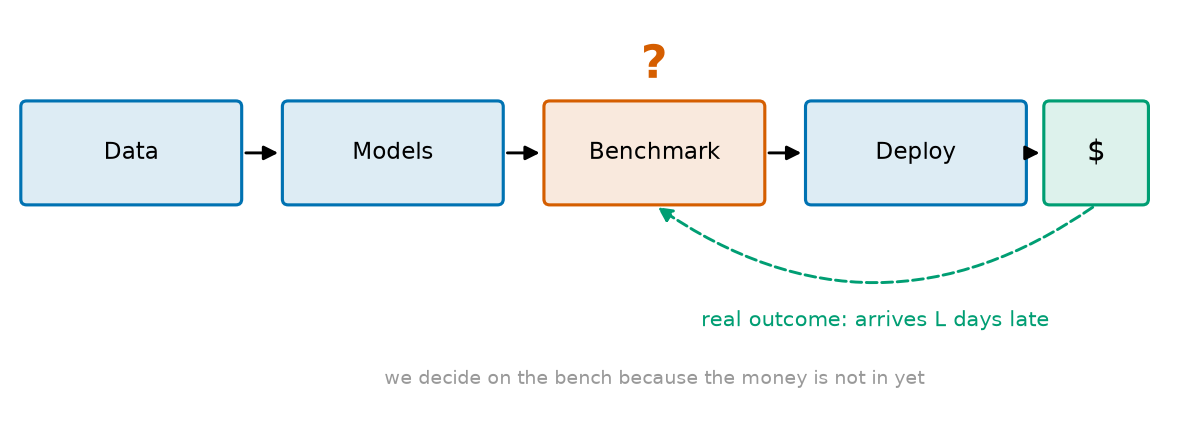
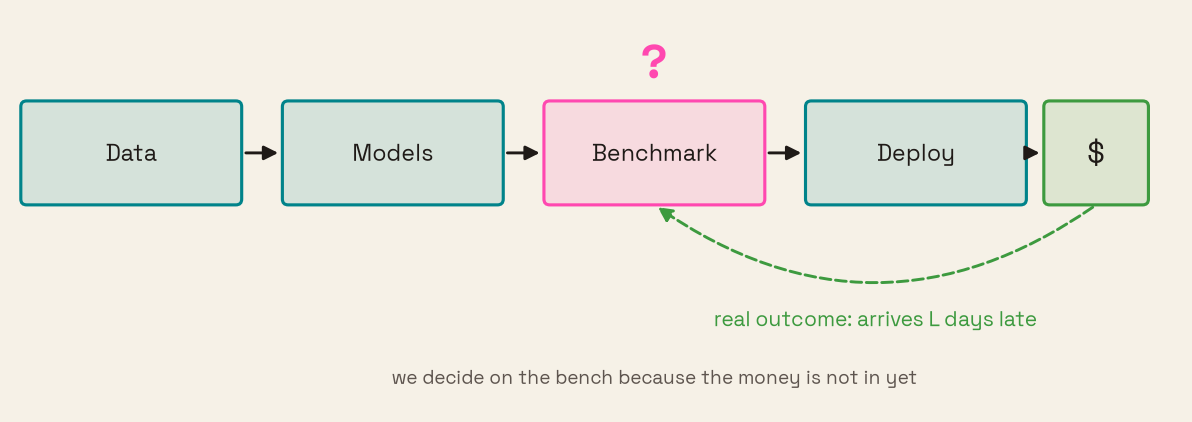
Slide mockups: riso palette, cream paper, Space Grotesk to match figs

diff --git a/slides/mockups.py b/slides/mockups.py
@@ -8,8 +8,11 @@ matplotlib.use("Agg")
 import matplotlib.pyplot as plt  # noqa: E402
 from matplotlib.patches import FancyArrowPatch, FancyBboxPatch  # noqa: E402
 
+from evalsq.plots import INK  # noqa: E402,F401  (import applies the riso palette, paper and font rcParams)
+
 OUT = Path(__file__).parent
-BLUE, ORANGE, GREEN, GREY, RED = "#0072B2", "#E69F00", "#009E73", "#999999", "#D55E00"
+# Same risograph inks as evalsq/plots.py.
+BLUE, ORANGE, GREEN, GREY, RED = "#00838A", "#FF6C2F", "#3D9A3F", "#5E554F", "#FF48B0"
 
 
 def canvas(w=10, h=3.2):
@@ -26,7 +29,7 @@ def box(ax, x, y, text, w=1.8, h=0.8, color=BLUE, fs=11, dashed=False):
     ax.text(x, y, text, ha="center", va="center", fontsize=fs)
 
 
-def arrow(ax, a, b, color="black", rad=0.0, ls="-", text=None, toff=(0, 0.2)):
+def arrow(ax, a, b, color=INK, rad=0.0, ls="-", text=None, toff=(0, 0.2)):
     ax.add_patch(FancyArrowPatch(a, b, arrowstyle="-|>", mutation_scale=14, color=color, lw=1.4,
                                  ls=ls, connectionstyle=f"arc3,rad={rad}"))
     if text:
@@ -58,7 +61,7 @@ def pipeline():
 def timeline():
     """Slide 5: one month of the worked example. Decide at t on data up to t-L, trade, see P&L L days later."""
     fig, ax = canvas(10, 2.6)
-    ax.plot([0.5, 9.5], [1.3, 1.3], color="black", lw=1.2)
+    ax.plot([0.5, 9.5], [1.3, 1.3], color=INK, lw=1.2)
     ax.add_patch(FancyBboxPatch((0.6, 1.15), 2.8, 0.3, boxstyle="square,pad=0", fc=BLUE + "33", ec="none"))
     ax.text(2.0, 1.6, "labels we can see", ha="center", fontsize=9, color=BLUE)
     ax.add_patch(FancyBboxPatch((3.4, 1.15), 1.4, 0.3, boxstyle="square,pad=0", fc=GREY + "33", ec="none"))
@@ -66,7 +69,7 @@ def timeline():
     ax.add_patch(FancyBboxPatch((4.8, 1.15), 3.0, 0.3, boxstyle="square,pad=0", fc=ORANGE + "33", ec="none"))
     ax.text(6.3, 1.6, "month t: deployed model trades", ha="center", fontsize=9, color=ORANGE)
     for x, t in [(3.4, "t-L\n"), (4.8, "t\nretrain + pick"), (7.8, "t+1\nnext pick"), (9.2, "t+1+L\nmonth t P&L seen")]:
-        ax.plot([x, x], [1.1, 1.5], color="black", lw=1)
+        ax.plot([x, x], [1.1, 1.5], color=INK, lw=1)
         ax.text(x, 0.55, t, ha="center", fontsize=9)
     save(fig, "mock_timeline.png")
 
@@ -94,7 +97,7 @@ def heuristics_map():
     for i, (h, q, c) in enumerate(items):
         x = 1.7 + i * 3.3
         box(ax, x, 1.6, h, w=2.9, h=0.7, color=c, fs=11)
-        ax.text(x, 0.85, q, ha="center", fontsize=9, color="#333333")
+        ax.text(x, 0.85, q, ha="center", fontsize=9, color=INK)
     arrow(ax, (0.3, 0.3), (9.7, 0.3), color=GREY)
     ax.text(0.3, 0.05, "familiar", fontsize=8, color=GREY)
     ax.text(9.7, 0.05, "less common", fontsize=8, color=GREY, ha="right")
